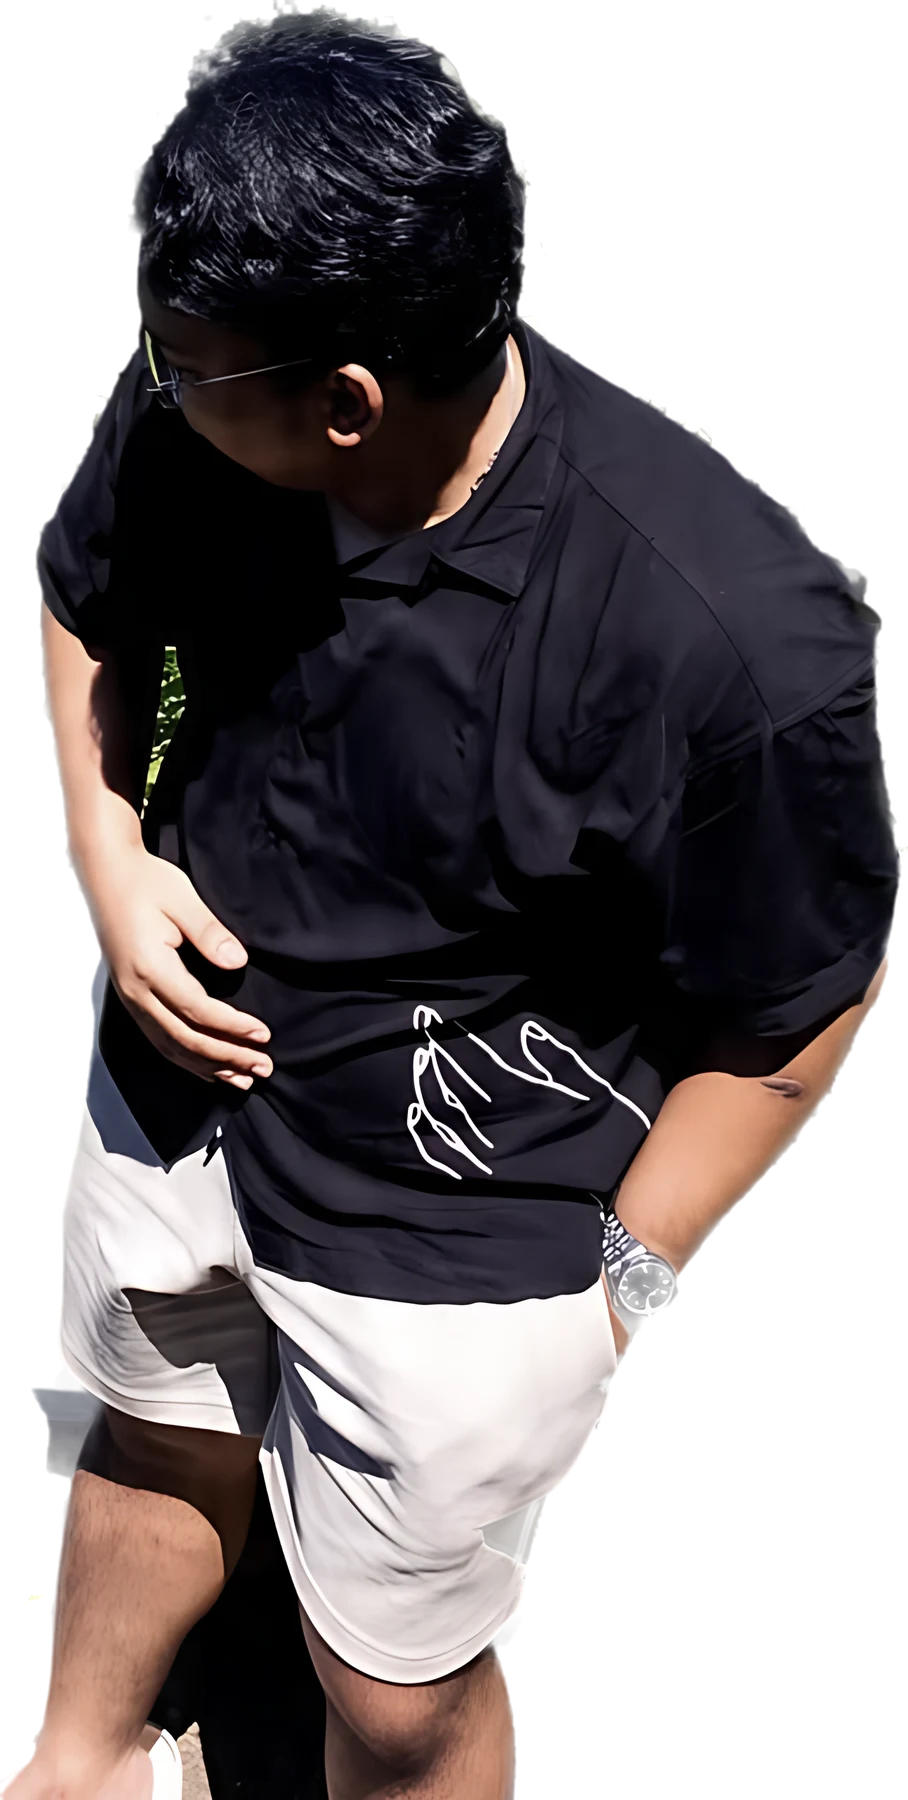
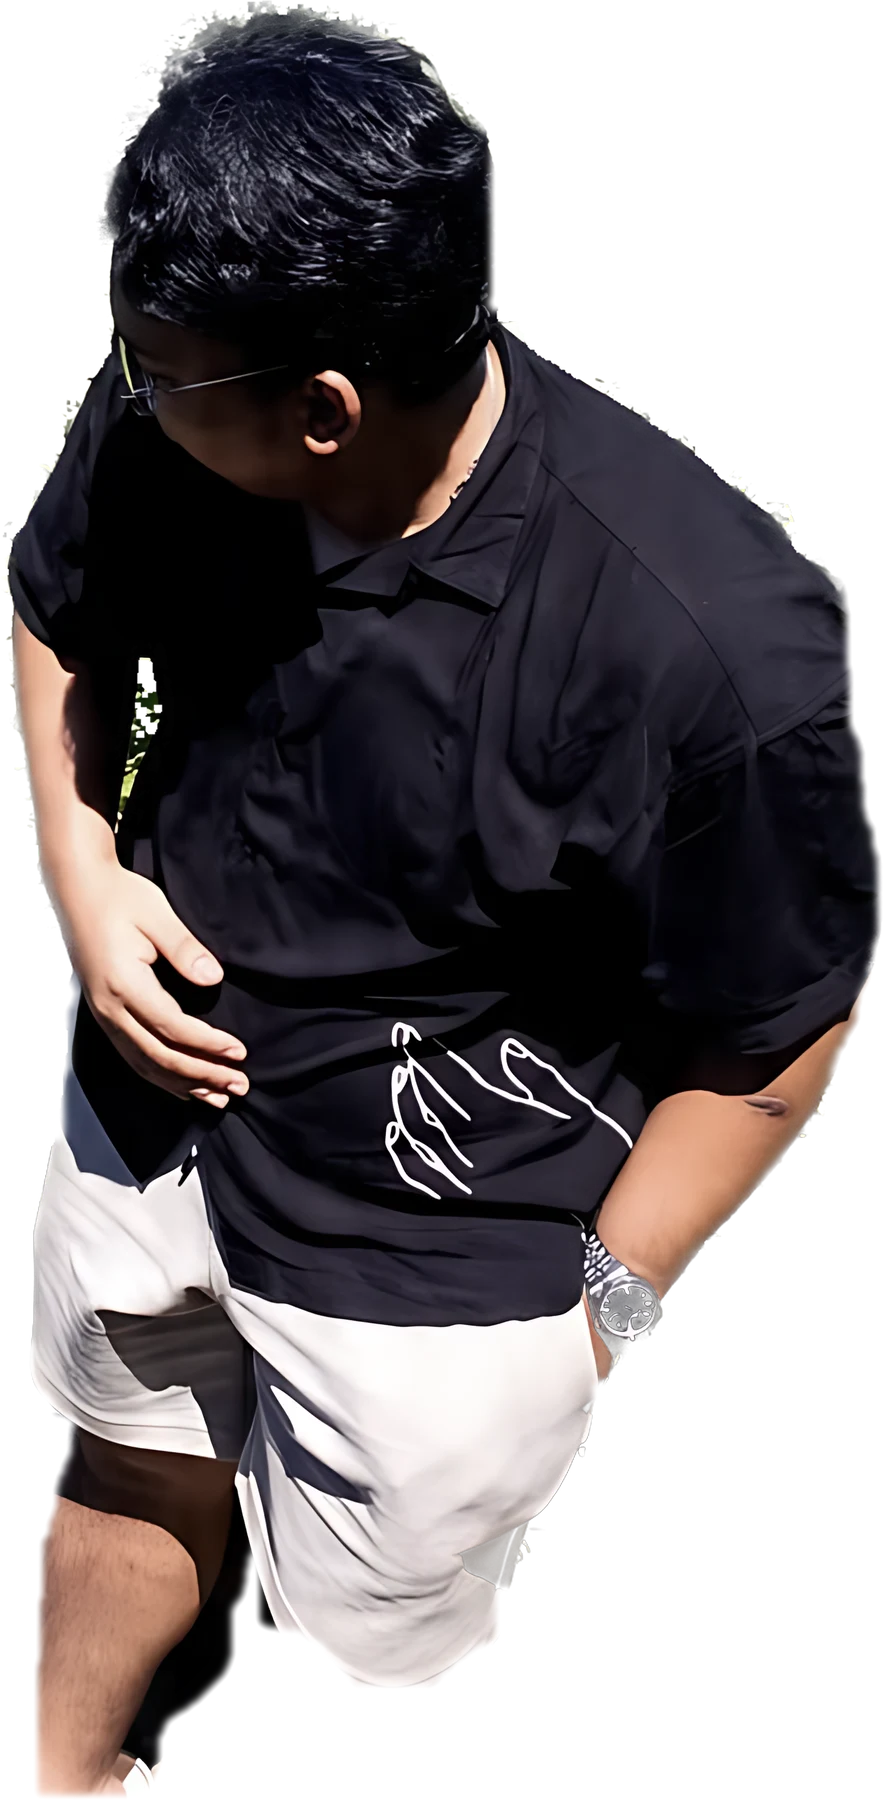
chore(assets): portrait cutouts v2, drop duplicate cert JPGs
- Replace the six @2x.webp portrait cutouts with the owner's v2 exports
  (cleaner silhouette, cigarette removed). Same filenames; Hero and
  Reach Out keep their paths, but the intrinsic sizes changed: hero
  1045x1600 (was 1324x1600), footer 883x1800 (was 908x1800), so the
  declared width/height and the DESIGN appendix are updated.
- Delete public/images/certs/cert-photo-{1,2,3}.jpg; the WebPs are the
  source of truth and the JPGs were referenced nowhere.
- Record both in docs/DECISIONS.md.

diff --git a/components/sections/ReachOut.tsx b/components/sections/ReachOut.tsx
@@ -11,7 +11,7 @@ import { ArrowUpIcon, ArrowUpRightIcon, CopyIcon } from '@/components/ui/icons'
 
 const FOOTER_PORTRAIT = {
   src: '/images/portrait/kenny-footer-color@2x.webp',
-  width: 908,
+  width: 883,
   height: 1800,
 }
 

diff --git a/components/hero/Hero.tsx b/components/hero/Hero.tsx
@@ -10,7 +10,7 @@ import { Ticker } from './Ticker'
 
 const HERO_PORTRAIT = {
   src: '/images/portrait/kenny-hero-crop-color@2x.webp',
-  width: 1324,
+  width: 1045,
   height: 1600,
 }
 

diff --git a/docs/DECISIONS.md b/docs/DECISIONS.md
@@ -40,3 +40,5 @@ Append one entry per decision: date · decision · alternative considered · rea
 | 2026-10-28 | Playwright runs two projects, `desktop` 1440×900 and `mobile` 390×844 (Pixel 7 emulation); the `selectLang` helper opens the menu first on mobile | one 1280 project | CLAUDE.md §7 asks for 1440 and 390; the language toggle lives inside the overlay below md |
 | 2026-10-28 | Review screenshots are produced by `tests/playwright/screenshots.spec.ts` into `test-results/screenshots/` (git-ignored) after forcing lazy images to load, with the mobile emulation flags off (`isMobile: false`, DPR 1) for the capture only | commit screenshots; capture under full Pixel 7 emulation | artefacts, not source; lazy images far from the viewport never load otherwise, and the full-page capture under combined mobile emulation dropped the hero portrait from the bitmap although it was loaded (real-device variants paint it; the layout tests keep the emulation) |
 | 2026-10-28 | `@types/node` 22.20.5 pinned exactly; `pnpm add` wrote a caret despite `save-exact`, corrected by hand in `package.json` and the lockfile specifier | leave the caret | CLAUDE.md §2 exact versions |
+| 2026-10-30 | Portrait cutouts v2: owner-made silhouette clips the matting alpha; cigarette removed from the hero source by inpainting. Same six filenames; new intrinsic sizes hero 1045 × 1600 (was 1324 × 1600) and footer 883 × 1800 (was 908 × 1800), updated in `Hero.tsx`, `ReachOut.tsx` and the DESIGN appendix | keep the v1 cutouts | cleaner silhouette; the declared width/height must match the file or `next/image` reserves the wrong aspect |
+| 2026-10-30 | `public/images/certs/cert-photo-{1,2,3}.jpg` deleted; the WebPs are the source of truth (supersedes the 2026-10-28 "JPG originals stay tracked" row) | keep the JPGs for re-exports | duplicates referenced nowhere; the originals remain on the owner's disk |

diff --git a/docs/DESIGN.md b/docs/DESIGN.md
@@ -228,8 +228,8 @@ Touch targets ≥ 44 px. No horizontal scroll at any width (marquee is `overflow
 
 | Asset | File | Notes |
 |---|---|---|
-| Hero portrait | `public/images/portrait/kenny-hero-crop-color@2x.webp` | 1324 × 1600; soft fade at bottom |
-| Reach Out portrait | `public/images/portrait/kenny-footer-color@2x.webp` | 908 × 1800 |
+| Hero portrait | `public/images/portrait/kenny-hero-crop-color@2x.webp` | 1045 × 1600 (v2 cutout); soft fade at bottom |
+| Reach Out portrait | `public/images/portrait/kenny-footer-color@2x.webp` | 883 × 1800 (v2 cutout) |
 | Alternates | `*-color-soft@2x.webp`, `*-bw@2x.webp` | WebP only in git; PNG masters (0.8–1.3 MB each) stay in the owner's source zip, ignored by git |
 | Fonts | `public/fonts/InterDisplay-{Medium,SemiBold}.woff2`, `Inter-{Regular,Medium}.woff2`, `DMMono-{Regular,Medium}.woff2` | OFL; subset Latin |
 | Glass fallback | `public/3d/hero-glass-fallback@2x.webp` | Exported from the dev scene |
